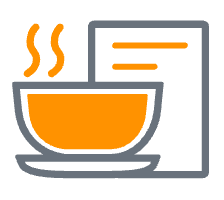
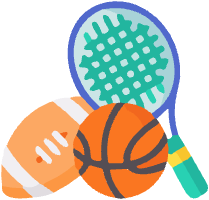
更换了部分图标

diff --git a/miniprogram/pages/student/projectList/projectList.js b/miniprogram/pages/student/projectList/projectList.js
@@ -4,14 +4,16 @@ const DEFAULT_ICON = '../../../assets/projects/project_active.png';
 const DEFAULT_NOTICE_ICON = '../../../assets/projects/project_notice.png';
 const CATEGORY_ICONS = {
   '其他': '../../../assets/projects/project_active.png',
-  '创新创业': '../../../assets/projects/创新创业.png',
-  '宿舍安全': '../../../assets/projects/宿舍安全.png',
+  '学科竞赛': '../../../assets/projects/学科竞赛.png',
+  '宿舍文明': '../../../assets/projects/宿舍文明.png',
   '心理健康': '../../../assets/projects/心理健康.png',
   '志愿服务': '../../../assets/projects/志愿服务.png',
-  '招生就业': '../../../assets/projects/招生就业.png',
+  '生涯规划': '../../../assets/projects/生涯规划.png',
   '文体工作': '../../../assets/projects/文体工作.png',
   '苏乡永助': '../../../assets/projects/苏乡永助.png',
-  '资助宣传大使': '../../../assets/projects/资助宣传大使.png'
+  '资助宣传': '../../../assets/projects/资助宣传.png',
+  '“彩虹桥”赋能项目': '../../../assets/projects/彩虹桥.png',
+  '创新创业': '../../../assets/projects/创新创业.png'
 };
 const CARD_GRADIENTS = [
   ['#eef6ff', '#f4fbff'],

diff --git a/cloudfunctions/adminRewardService/index.js b/cloudfunctions/adminRewardService/index.js
@@ -236,13 +236,18 @@ async function getRedeemSummary() {
   const now = new Date();
   const startOfDay = new Date(now.getFullYear(), now.getMonth(), now.getDate());
 
-  const [totalRes, pendingRes] = await Promise.all([
+  const [totalRes, todayRes, pendingRes] = await Promise.all([
     collection.count(),
+    collection.where({
+      createdAt: _.gte(startOfDay),
+      status: 'success'
+    }).count(),
     collection.where({ status: 'unissued' }).count()
   ]);
 
   return {
     total: totalRes.total || 0,
+    today: todayRes.total || 0,
     pendingUnissued: pendingRes.total || 0
   };
 }

diff --git a/scripts/export-student-whitelist.js b/scripts/export-student-whitelist.js
@@ -2,7 +2,7 @@ const fs = require('fs');
 const path = require('path');
 const xlsx = require('xlsx');
 
-const INPUT_FILE = path.resolve(__dirname, '../miniprogram/计算机名单.xlsx');
+const INPUT_FILE = path.resolve(__dirname, '../计算机名单.xlsx');
 const OUTPUT_FILE = path.resolve(__dirname, '../student-whitelist.jsonl'); // 新文件名
 
 const workbook = xlsx.readFile(INPUT_FILE);

diff --git a/miniprogram/pages/admin/home/home.js b/miniprogram/pages/admin/home/home.js
@@ -115,6 +115,7 @@ Page({
       if (!result.success) throw new Error(result.message || '兑换统计失败');
       const data = result.data || {};
       this.setData({
+        'metrics.redeemToday': data.today || 0,
         'metrics.redeemPending': data.pendingUnissued || 0
       });
     } catch (err) {
